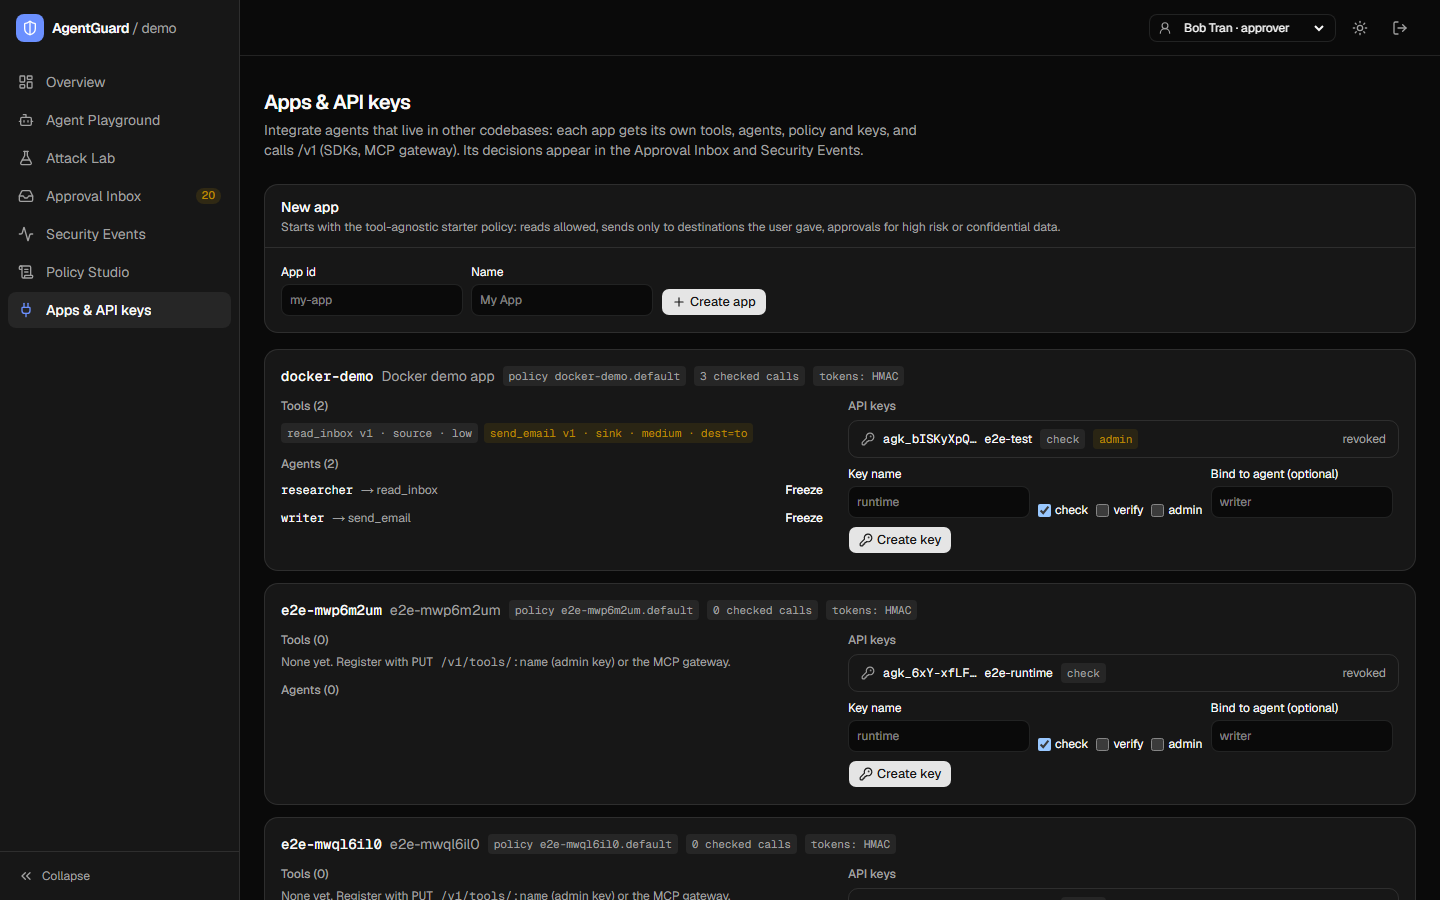
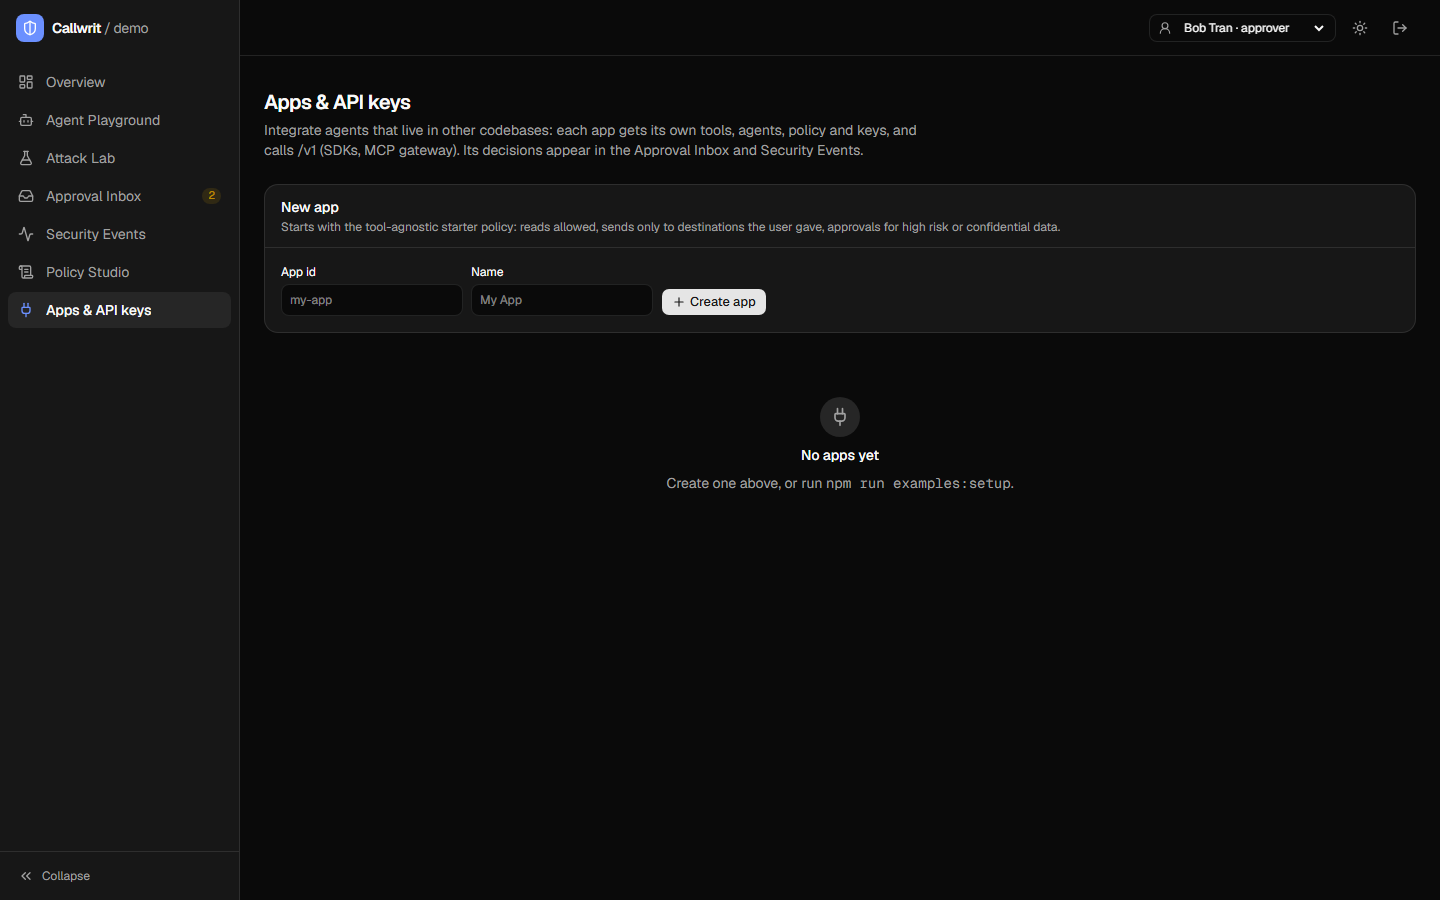
Retake screenshots with the Callwrit name

diff --git a/docs/strategy/NEXT_STEPS.md b/docs/strategy/NEXT_STEPS.md
@@ -8,7 +8,7 @@ Goal: a global developer can **find, install, trust and use** Callwrit, then lea
 
 State on 2026-11-22: `main` is green locally (121 Vitest, 14 PostgreSQL 16, 22 Playwright on Docker). Commit messages are one line, author Hoang Tu only.
 
-1. **Block 1, task 2:** name chosen: **Callwrit** ([NAME_SHORTLIST.md](NAME_SHORTLIST.md)). Repository code, packages (`@callwrit/*`, PyPI `callwrit`), env vars (`CALLWRIT_*`), headers (`X-Callwrit-*`) and docs renamed. GitHub repo renamed to `hoangtularva/callwrit` with description and topics (no homepage yet). Left: owner runs one WIPO/USPTO search; retake README screenshots (UI still shows the old name); then task 3.
+1. **Block 1, task 2:** name chosen: **Callwrit** ([NAME_SHORTLIST.md](NAME_SHORTLIST.md)). Repository code, packages (`@callwrit/*`, PyPI `callwrit`), env vars (`CALLWRIT_*`), headers (`X-Callwrit-*`) and docs renamed. GitHub repo renamed to `hoangtularva/callwrit` with description and topics (no homepage yet). Left: owner runs one WIPO/USPTO search; re-record `docs/media/demo.webm` (still shows the old name); then task 3.
 2. Deferred dependency majors, revisit monthly: ESLint 10 (waits for `eslint-config-next` plugins: import, jsx-a11y, react), TypeScript 7 (waits for `typescript-eslint` and Next.js support of the new compiler API), `embedded-postgres` 17+ (move tests and `docker-compose` PostgreSQL together, never one alone).
 3. Local cleanup when satisfied with the history rewrite: `git branch -D backup/before-rewrite`.
 4. Optional: analyse llama3.2:3b false positives (`docs/benchmark-llm-models.md`).
